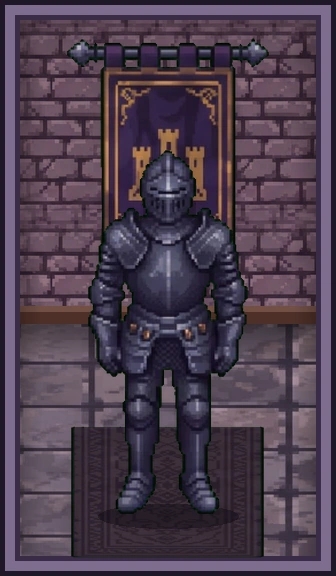
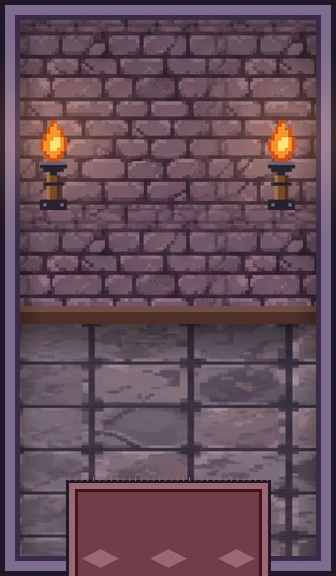
v3.39.1: mobili appoggiati ai muri, tappeti piatti, corridoio con solo tappeto e fiaccole, balcone rivisto, fiaccole nelle stanze
Claude-Session: https://claude.ai/code/session_0172XSwwqtzYGYUizC6FgUXo

diff --git a/js/app.js b/js/app.js
@@ -50,7 +50,7 @@ const SEZ_REGGIA = {
 };
 const SKIN = { castello: { modulare: true, img: "img/castello.webp", w: 768, h: 1376, sezione: SEZ_CASTELLO, stanze: "img/stanze/",
   cornice: { dir: "img/dimore/castello/", hd: true, tetto: [768, 144], base: [768, 260.5, 35], muro: [129, 208], dx: [128, 208], area: [129, 640], fondo: "#17121d", cielo: "#362131" },
-  tessere: { dir: "img/dimore/castello/tessere/", dim: {"bagno":[648,576],"balcone":[312,576],"camera":[648,576],"cantina":[768,576],"corridoio":[336,576],"cucina":[528,576],"cucina_soggiorno":[1056,576],"giardino":[744,576],"ingresso":[528,576],"lavanderia":[768,576],"ripostiglio":[528,576],"soggiorno":[720,576],"studio":[720,576],"terrazzo":[744,576]}, tipi: ["bagno", "camera", "ripostiglio", "corridoio", "cucina", "ingresso", "soggiorno", "balcone", "cucina_soggiorno", "studio", "lavanderia", "terrazzo", "giardino", "cantina"] },
+  tessere: { dir: "img/dimore/castello/tessere/", dim: {"bagno":[648,576],"balcone":[360,576],"camera":[648,576],"cantina":[768,576],"corridoio":[336,576],"cucina":[528,576],"cucina_soggiorno":[1056,576],"giardino":[744,576],"ingresso":[528,576],"lavanderia":[768,576],"ripostiglio":[528,576],"soggiorno":[720,576],"studio":[720,576],"terrazzo":[744,576]}, tipi: ["bagno", "camera", "ripostiglio", "corridoio", "cucina", "ingresso", "soggiorno", "balcone", "cucina_soggiorno", "studio", "lavanderia", "terrazzo", "giardino", "cantina"] },
   file: { bagno: "bagno", camera: "camera", ripostiglio: "sgabuzzino", corridoio: "corridoio", cucina: "cucina", ingresso: "ingresso", soggiorno: "soggiorno", balcone: "balcone", cucina_soggiorno: "cucina_soggiorno", studio: "studio", lavanderia: "lavanderia", cantina: "cantina", giardino: "giardino" } },
   reggia: { modulare: true, img: "img/dimore/reggia/sezione.webp", w: 768, h: 1376, sezione: SEZ_REGGIA, stanze: "img/dimore/reggia/stanze/",
   cornice: { dir: "img/dimore/reggia/", tetto: [768, 300], base: [768, 291], muro: [100, 340], dx: [146, 280], area: [100, 622], fondo: "#d9d3e0", cielo: "#111b40" },
@@ -115,7 +115,7 @@ const LIVELLI_PRODOTTO = ["pieno", "metà", "quasi finito", "finito"];
 /* Un prodotto finito senza confezioni di scorta sparisce dallo scaffale: resta solo nella lista della spesa, e torna quando lo compri. */
 const sulloScaffale = p => !(p.livello === "finito" && !((p.scorta || 0) > 0));
 const XP_SOGLIE = [0, 200, 450, 750, 1100, 1500, 2000];
-const VERSIONE_APP = "3.39.0";
+const VERSIONE_APP = "3.39.1";
 const LV_ANIMALE = 2; /* dal livello 2 il primo animale è un regalo; gli altri si comprano con le monete */
 const SBLOCCHI = ["personaggio base", "il tuo primo animale, in regalo", "cappelli e accessori", "segni particolari", "accessori per animali", "animali fantasy", "oggetti rari"];
 const CAT = {

diff --git a/sw.js b/sw.js
@@ -1,6 +1,6 @@
 /* Our little world · service worker
    Tiene in cache la "scocca" dell'app così si apre subito; i dati arrivano sempre freschi da Supabase. */
-const VERSIONE = "olw-v3.39.0";
+const VERSIONE = "olw-v3.39.1";
 const SCOCCA = ["./", "index.html", "css/style.css", "js/store.js", "js/sprite.js", "js/csv.js", "js/ampolle.js", "js/app.js", "config.js", "manifest.webmanifest", "icons/icon-192.png", "icons/icon-512.png", "img/castello.webp", "img/porta.png", "img/porta-sporco1.png", "img/porta-sporco2.png", "img/porta-sporco3.png"];
 
 self.addEventListener("install", e => {

diff --git a/tools/dimore/modulare/componi.py b/tools/dimore/modulare/componi.py
@@ -373,6 +373,22 @@ if os.environ.get("RIF", "1") == "1":
                        ("cucina", 5, CIOTTOLI), ("corridoio", 5, CIOTTOLI), ("ingresso", 5, CIOTTOLI), ("lavanderia", 5, CIOTTOLI),
                        ("bagno", 5, PIASTRELLE), ("ripostiglio", 4, SCURO), ("cantina", 4, SCURO)):
         STANZE_CASTELLO[_n]["pav"] = (_p,); STANZE_CASTELLO[_n]["pav_g"] = _g
+    # mobili contro i muri, tappeti piatti, fiaccole
+    DIMORE["castello"]["appoggio"] = True; DIMORE["castello"]["fiaccole"] = 2
+    RIEMPI_CASTELLO["luci"] = RIEMPI_CASTELLO["luci"] | {"fiaccola"}
+    MALVA, VINO, OLIVA = (108, 78, 112), (112, 62, 72), (84, 78, 104)
+    STANZE_CASTELLO["soggiorno"]["tappeto"] = dict(sotto="soggiorno_1", extra=26, dy=-5, prof=24, col=VINO)
+    STANZE_CASTELLO["camera"]["tappeto"] = dict(sotto="camera_1", extra=20, dy=-6, prof=28, col=MALVA)
+    STANZE_CASTELLO["ingresso"]["tappeto"] = dict(sotto="ingresso_1", extra=-4, dy=3, prof=15, col=MALVA)
+    STANZE_CASTELLO["studio"]["tappeto"] = dict(sotto=("studio_1", "studio_2"), extra=14, dy=-4, prof=22, col=OLIVA)
+    STANZE_CASTELLO["bagno"]["tappeto"] = dict(sotto="bagno_1", extra=-10, dy=8, prof=12, col=MALVA)
+    STANZE_CASTELLO["cucina_soggiorno"]["tappeto"] = dict(sotto="soggiorno_1", extra=26, dy=-5, prof=24, col=VINO)
+    # corridoio: niente mobili, solo un tappeto lungo e due fiaccole
+    STANZE_CASTELLO["corridoio"].update(pav_mobili=[], appesi=[], vuota=True, fiaccole_bordi=True, fiaccola_cima=20, tappeto=dict(y0=MURO + 12, prof=26, meno=22, col=VINO))
+    # balcone: vasi e lanterna lungo la balaustra
+    STANZE_CASTELLO["balcone"] = dict(STANZE_CASTELLO["balcone"], pav_g=CIOTTOLI, pav_mobili=[("balcone_1", 84, 3), ("balcone_7", 84, 5), ("balcone_2", 84, 2)], appesi=[])
+    STANZE_CASTELLO["terrazzo"] = dict(STANZE_CASTELLO["terrazzo"], pav_g=CIOTTOLI, appesi=[])
+    RIEMPI_CASTELLO["pav"]["balcone"] = ["balcone_1", "balcone_2", "giardino_6"]
 
 
 def usa(dimora):
@@ -426,12 +442,43 @@ def buchi(occupati, W, bordo=4, pad=2):
     if W - bordo > x: out.append((x, W - bordo))
     return out
 
+# Mobili appoggiati ai muri: i piedi stanno poco davanti al muro; solo tavoli, sedie e simili stanno più avanti nel pavimento.
+CENTRO = {"cucina_4", "soggiorno_5", "balcone_3", "balcone_4", "balcone_5", "dec_b_6", "ripostiglio_3", "ripostiglio_7"}
+
+
+def piede(k, b):
+    """Riga dei piedi di un mobile. Senza CFG['appoggio'] resta quella della ricetta."""
+    if not CFG.get("appoggio"): return b
+    n = k[0] if isinstance(k, tuple) else k
+    if n in CENTRO: return MURO + 26
+    return MURO + 2 + .55 * max(b - 68, 2)
+
+
+def tappeto_piatto(img, cx, y0, w, prof, col=(108, 78, 112)):
+    """Tappeto steso a terra: rettangolo con bordo, fascia e motivo, disegnato in alta risoluzione (non è un mobile in piedi)."""
+    d = ImageDraw.Draw(img); g = max(2, Q // 2)
+    a_, b_ = max(cx - w / 2, 5), min(cx + w / 2, img.width / Q - 5)      # mai oltre le pareti della stanza
+    x0, x1, ya, yb = S(a_), S(b_), S(y0), S(y0 + prof)
+    chiaro = tuple(min(255, c + 42) for c in col); scuro = tuple(max(0, c - 44) for c in col)
+    d.rectangle((x0, ya, x1, yb), fill=(34, 24, 40, 255))
+    d.rectangle((x0 + g, ya + g, x1 - g, yb - g), fill=chiaro + (255,))
+    d.rectangle((x0 + 3 * g, ya + 3 * g, x1 - 3 * g, yb - 3 * g), fill=scuro + (255,))
+    d.rectangle((x0 + 4 * g, ya + 4 * g, x1 - 4 * g, yb - 4 * g), fill=col + (255,))
+    cy = (ya + yb) // 2; n = max(1, int((x1 - x0) // (S(9))))
+    for i in range(n):                                   # rombi lungo il centro
+        mx = x0 + (i + .5) * (x1 - x0) / n; r = min(g * 3, (yb - ya) // 4)
+        d.polygon([(mx - 2 * r, cy), (mx, cy - r), (mx + 2 * r, cy), (mx, cy + r)], fill=chiaro + (255,))
+    for xx in range(x0 + g, x1, 2 * g):                  # frange sui lati corti
+        d.line((xx, ya - g, xx, ya), fill=chiaro + (255,), width=1); d.line((xx, yb, xx, yb + g), fill=chiaro + (255,), width=1)
+
 
 def stanza(nome, W):
     """(immagine, posti). posti = {"t": [(cx, base)], "p": [(cx, cima)]} in pixel del disegno."""
     r = CFG["stanze"][nome]; rie = CFG["rie"]; LUCI = rie["luci"]
     img = sfondo(W, r)
-    lay = disponi(W, r["pav_mobili"]); pos = {k: (cx, b) for k, cx, b, _ in lay if k != "R"}
+    lay = disponi(W, r["pav_mobili"])
+    if CFG.get("appoggio") and r.get("bordo") != "siepe": lay = [(k, cx, piede(k, b), w) for k, cx, b, w in lay]
+    pos = {k: (cx, b) for k, cx, b, _ in lay if k != "R"}
     posti = {"t": [(round(cx), b) for k, cx, b, _ in lay if k == "R"], "p": [(round(cx), CIMA_DIPINTO) for k, cx, b, _ in lay if k == "R"]}
     piani = [(cx - w / 2, cx + w / 2) for k, cx, b, w in lay]
     appesi = [(p, pos[sopra][0], cima) for p, sopra, cima in r.get("appesi", []) if sopra in pos]
@@ -448,7 +495,7 @@ def stanza(nome, W):
     for p, cx, cima in appesi: segna(cx, pezzo(p).width, 3)
     # 1. tappeti stesi a terra: sotto al centro (e a un quarto se la stanza è larga)
     tap = rie["tap"].get(nome)
-    if tap and not r.get("bordo"):
+    if tap and not r.get("bordo") and not CFG.get("appoggio"):
         for fx in ((.5,) if W < 150 else (.28, .72)): tappeto(img, pezzo(tap), fx * W, 93)
     # 2. mobiletti, piante, botti nei buchi del pavimento
     def riempi_pav(pool):
@@ -466,14 +513,37 @@ def stanza(nome, W):
         return out
     presenti = {k for k, *_ in lay if isinstance(k, str)} | {p for p, *_ in appesi}
     ris = rie["riserva_pav"][:]; random.Random(sum(map(ord, nome))).shuffle(ris)
-    extra = riempi_pav([(p, 84 + k % 3 * 2) for k, p in enumerate(rie["pav"][nome] + [x for x in ris if x not in rie["pav"][nome]])])
+    extra = riempi_pav([(p, 84 + k % 3 * 2) for k, p in enumerate(rie["pav"][nome] + [x for x in ris if x not in rie["pav"][nome]])]) if not r.get("vuota") else []
+    if CFG.get("appoggio") and r.get("bordo") != "siepe": extra = [(p, cx, piede(p, b)) for p, cx, b in extra]
     for p, cx, b in extra:
         piani.append((cx - pezzo(p).width / 2, cx + pezzo(p).width / 2))
         top = b - pezzo(p).height; sl = slice(max(0, int(cx - pezzo(p).width / 2)), min(W, int(cx + pezzo(p).width / 2) + 1))
         cima_mobili[sl] = np.minimum(cima_mobili[sl], top)
-    # 3. candele, finestre, arazzi sul muro libero: ognuno va nel punto più largo dove ci sta in altezza
+    # 2b. fiaccole a muro: una per lato nel tratto di parete libero più vicino al bordo (nelle stanze al chiuso)
     deco = []
-    pool = rie["parete"].get(nome, []) + ([] if r.get("bordo") else [x for x in rie["riserva_parete"] if x[0] not in {y[0] for y in rie["parete"].get(nome, [])}])   # all'aperto niente quadri nel cielo
+    nf = r.get("fiaccole", CFG.get("fiaccole", 0))
+    if nf and not r.get("bordo"):
+        ft = pezzo("fiaccola"); cf = r.get("fiaccola_cima", 17)
+        libero = (~blocca) & (cima_mobili >= cf + ft.height + 3)
+        segs, x = [], 0
+        while x < W:
+            if not libero[x]: x += 1; continue
+            y = x
+            while y < W and libero[y]: y += 1
+            if y - x >= ft.width + 3: segs.append((x, y))
+            x = y
+        if r.get("fiaccole_bordi") or not segs:          # stanze senza mobili: ai due lati
+            sc = [(round(W * .16), cf), (round(W * .84), cf)] if W > 40 else [(W // 2, cf)]
+        else:
+            sc = []
+            a_, b_ = segs[0]
+            if a_ < W * .5: sc.append(((a_ + b_) / 2 if b_ - a_ < 30 else (a_ + 8 if a_ < 6 else a_ + 13), cf))
+            a_, b_ = segs[-1]
+            if b_ > W * .5 and (segs[-1] != segs[0] or not sc): sc.append(((a_ + b_) / 2 if b_ - a_ < 30 else (b_ - 8 if b_ > W - 6 else b_ - 13), cf))
+        for cx, cf_ in sc[:nf]:
+            deco.append(("fiaccola", cx, cf_)); segna(cx, ft.width, 4)
+    # 3. candele, finestre, arazzi sul muro libero: ognuno va nel punto più largo dove ci sta in altezza
+    pool = [] if r.get("vuota") else rie["parete"].get(nome, []) + ([] if r.get("bordo") else [x for x in rie["riserva_parete"] if x[0] not in {y[0] for y in rie["parete"].get(nome, [])}])   # all'aperto niente quadri nel cielo
     for n_, cima in pool:
         q = pezzo(n_); best = None
         if n_ in presenti or GLOBALI.get(n_, 0) >= CFG["lim"]: continue      # mai due volte nella stanza, poche volte nella dimora
@@ -491,17 +561,26 @@ def stanza(nome, W):
     for k, cx, b, _ in lay:
         if k in LUCI: luce(img, cx, b - pezzo(k).height * 0.55)
     for k, cx, cima in appesi + deco:
-        if k in LUCI: luce(img, cx, cima + pezzo(k).height * 0.35, r=20, a=40)
+        if k == "fiaccola": luce(img, cx, cima + pezzo(k).height * 0.2, r=26, a=64)
+        elif k in LUCI: luce(img, cx, cima + pezzo(k).height * 0.35, r=20, a=40)
     for k, cx, b in extra:
         if k in LUCI: luce(img, cx, b - pezzo(k).height * 0.7, r=18, a=36)
-    for p, sotto, base in r.get("tappeti", []):
+    for p, sotto, base in ([] if CFG.get("appoggio") else r.get("tappeti", [])):
         if sotto in pos: tappeto(img, pezzo(p), pos[sotto][0], base)
+    tp = r.get("tappeto")
+    if CFG.get("appoggio") and tp:
+        if tp.get("sotto") is not None:
+            if tp["sotto"] in pos:
+                lw = [w for k, cx, b, w in lay if k == tp["sotto"]][0]; cx, b = pos[tp["sotto"]]
+                tappeto_piatto(img, cx, b + tp.get("dy", -4), lw + tp.get("extra", 12), tp.get("prof", 20), tp.get("col", (108, 78, 112)))
+        else:
+            tappeto_piatto(img, W * tp.get("cx", .5), tp["y0"], W - tp.get("meno", 14), tp.get("prof", 22), tp.get("col", (108, 78, 112)))
     for p, cx, cima in appesi + deco: appendi(img, pezzo(p), cx, cima)
     for p, cx, b in sorted(extra, key=lambda e: e[2]): appoggia(img, pezzo(p), cx, b)
     for k, cx, b, _ in lay:
         if k != "R": appoggia(img, pezzo(k), cx, b)
     for p, sopra, base in r.get("davanti", []):
-        if sopra in pos: appoggia(img, pezzo(p), pos[sopra][0], base, ombra=False)
+        if sopra in pos and not (CFG.get("appoggio") and p == "ingresso_5"): appoggia(img, pezzo(p), pos[sopra][0], piede(p, base) if CFG.get("appoggio") else base, ombra=False)
     return img, posti
 
 

diff --git a/tools/dimore/modulare/fiaccola.py b/tools/dimore/modulare/fiaccola.py
@@ -1,0 +1,22 @@
+#!/usr/bin/env python3
+"""Disegna la fiaccola a muro della Rocca (castello/pezzi_x6/fiaccola.png): manico di legno in un anello di ferro, coppa, fiamma.
+Si disegna a mezzo pixel del disegno (grana di Q/2 pixel) così ha la stessa finezza dei mobili ritagliati. Uso: python3 fiaccola.py"""
+import os
+from PIL import Image
+
+Q = 6; G = Q // 2
+PAL = {"o": (206, 78, 22), "m": (250, 148, 38), "c": (255, 226, 122), "k": (40, 28, 30), "I": (40, 34, 48), "i": (104, 94, 116),
+       "W": (116, 72, 42), "w": (160, 108, 62), "d": (76, 46, 30)}
+RIGHE = [
+ ".....oo.....", ".....om.....", "....omm.o...", "....ommmo...", "...ommmmo...", "...ommccmo..", "..ommcccmo..", "..ommcccmo..",
+ "..ommccmmo..", "...ommmmo...", "...oommoo...", "....oooo....",
+ "..iiiiiiii..", "..IIIIIIII..", "...IIIIII...", ".....IIi....",
+ "....wWWd....", "....wWWd....", "...IIIIII...", "....wWWd....", "....wWWd....", "....wWWd....", "....wWWd....",
+ "..IIIIIIII..", "..IiIIIIiI..", "..IIIIIIII..",
+]
+im = Image.new("RGBA", (12 * G, len(RIGHE) * G), (0, 0, 0, 0))
+for y, riga in enumerate(RIGHE):
+    for x, c in enumerate(riga):
+        if c != ".": im.paste(PAL[c] + (255,), (x * G, y * G, (x + 1) * G, (y + 1) * G))
+out = os.path.join(os.path.dirname(os.path.abspath(__file__)), "castello", "pezzi_x6", "fiaccola.png")
+im.save(out); print(out, im.size)

diff --git a/tools/dimore/modulare/esporta.py b/tools/dimore/modulare/esporta.py
@@ -10,7 +10,7 @@ from PIL import Image
 
 RADICE = os.path.abspath(os.path.join(os.path.dirname(os.path.abspath(__file__)), "..", "..", ".."))
 LARGHEZZE = {"bagno": 108, "camera": 108, "ripostiglio": 88, "corridoio": 56, "cucina": 88, "ingresso": 88, "soggiorno": 120,
-             "balcone": 52, "cucina_soggiorno": 176, "studio": 120, "lavanderia": 128, "cantina": 128, "giardino": 124, "terrazzo": 124}
+             "balcone": 60, "cucina_soggiorno": 176, "studio": 120, "lavanderia": 128, "cantina": 128, "giardino": 124, "terrazzo": 124}
 
 for dim in sys.argv[1:] or ["castello", "reggia"]:
     componi.usa(dim)
